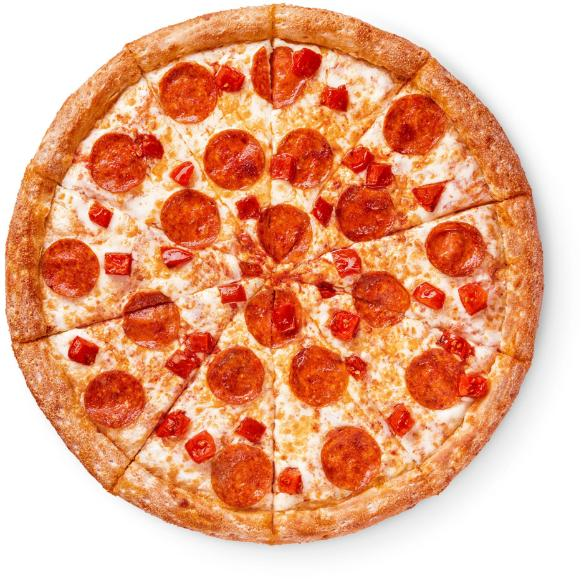
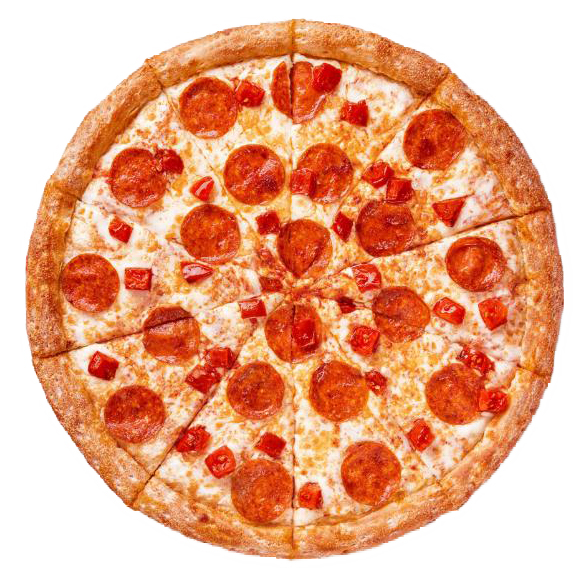
начало работы с выбором пиццы

diff --git a/src/module/product.js b/src/module/product.js
@@ -10,8 +10,8 @@ const pizzaArray = [
             lt: 685
         },
         structure: ['Пикантная пепперони', 'томатный соус', 'моцарелла', 'томаты'],
+        image: '/images/pizza/piper-bold.jpeg',
         images: {
-            preview: '/images/pizza/piper-bold.jpeg',
             bold: '/images/pizza/piper-bold.jpeg',
             thin: '/images/pizza/piper-thin.jpeg'
         }
@@ -27,8 +27,8 @@ const pizzaArray = [
             lt: 685
         },
         structure: ['Пикантная пепперони', 'томатный соус', 'моцарелла', 'томаты'],
+        image: '/images/pizza/piper-bold.jpeg',
         images: {
-            preview: '/images/pizza/piper-bold.jpeg',
             bold: '/images/pizza/piper-bold.jpeg',
             thin: '/images/pizza/piper-thin.jpeg'
         }
@@ -44,8 +44,8 @@ const pizzaArray = [
             lt: 685
         },
         structure: ['Пикантная пепперони', 'томатный соус', 'моцарелла', 'томаты'],
+        image: '/images/pizza/piper-bold.jpeg',
         images: {
-            preview: '/images/pizza/piper-bold.jpeg',
             bold: '/images/pizza/piper-bold.jpeg',
             thin: '/images/pizza/piper-thin.jpeg'
         }
@@ -61,8 +61,8 @@ const pizzaArray = [
             lt: 685
         },
         structure: ['Пикантная пепперони', 'томатный соус', 'моцарелла', 'томаты'],
+        image: '/images/pizza/piper-bold.jpeg',
         images: {
-            preview: '/images/pizza/piper-bold.jpeg',
             bold: '/images/pizza/piper-bold.jpeg',
             thin: '/images/pizza/piper-thin.jpeg'
         }
@@ -78,8 +78,8 @@ const pizzaArray = [
             lt: 685
         },
         structure: ['Пикантная пепперони', 'томатный соус', 'моцарелла', 'томаты'],
+        image: '/images/pizza/piper-bold.jpeg',
         images: {
-            preview: '/images/pizza/piper-bold.jpeg',
             bold: '/images/pizza/piper-bold.jpeg',
             thin: '/images/pizza/piper-thin.jpeg'
         }
@@ -95,8 +95,8 @@ const pizzaArray = [
             lt: 685
         },
         structure: ['Пикантная пепперони', 'томатный соус', 'моцарелла', 'томаты'],
+        image: '/images/pizza/piper-bold.jpeg',
         images: {
-            preview: '/images/pizza/piper-bold.jpeg',
             bold: '/images/pizza/piper-bold.jpeg',
             thin: '/images/pizza/piper-thin.jpeg'
         }
@@ -112,8 +112,8 @@ const pizzaArray = [
             lt: 685
         },
         structure: ['Пикантная пепперони', 'томатный соус', 'моцарелла', 'томаты'],
+        image: '/images/pizza/piper-bold.jpeg',
         images: {
-            preview: '/images/pizza/piper-bold.jpeg',
             bold: '/images/pizza/piper-bold.jpeg',
             thin: '/images/pizza/piper-thin.jpeg'
         }
@@ -129,8 +129,8 @@ const pizzaArray = [
             lt: 685
         },
         structure: ['Пикантная пепперони', 'томатный соус', 'моцарелла', 'томаты'],
+        image: '/images/pizza/piper-bold.jpeg',
         images: {
-            preview: '/images/pizza/piper-bold.jpeg',
             bold: '/images/pizza/piper-bold.jpeg',
             thin: '/images/pizza/piper-thin.jpeg'
         }

diff --git a/src/sass/index.sass b/src/sass/index.sass
@@ -407,4 +407,74 @@ body
             opacity: 0.6
             text-align: center
 
-                
+//Стили для блока вобор питцы
+.pizza-select-wrapper   
+    position: fixed
+    overflow-y: scroll
+    top: 0
+    right: 0
+    left: 0
+    height: 100%
+    background-color: rgba(0,0,0,0.3)
+    z-index: 999
+    .pizza-select
+        position: absolute
+        top: 0
+        right: 0
+        width: 550px
+        padding: 25px
+        min-height: calc(100% - 50px)
+        background-color: #fff
+    .pizza-size-image
+        position: relative
+        height: 450px
+        display: flex
+        align-items: center
+        justify-content: center
+    .radius
+        display: block
+        position: absolute
+        border: 1px dashed $red
+        border-radius: 50%
+        &:before
+            content: ""
+            display: block
+            padding-top: 100%
+    .small-radius
+        width: 300px
+    .middle-radius
+        width: 380px
+    .large-radius
+        width: 460px
+    img.pizza-radius
+        position: absolute
+        max-width: 320px
+        border-radius: 50%
+    .pizza-size-button
+        display: flex
+        width: 100%
+        justify-content: center
+        margin-top: 25px
+    .pizza-size-chekbox
+        &:nth-child(1)
+            label
+                border-radius: 10px 0 0 10px
+        &:nth-child(3)
+            label
+                border-radius: 0 10px 10px 0
+        input
+            position: fixed
+            top: -1000px
+        label
+            font-size: 0.9em
+            margin-right: -1px
+            display: inline-block
+            padding: 8px 14px 8px 15px
+            border: 1px solid $grey-simple
+            cursor: pointer
+            transition: all 0.3s
+        input:checked+label
+            background-color: $grey-simple
+            color: #fff
+        
+        

diff --git a/src/components/PizzaSelectComponent.vue b/src/components/PizzaSelectComponent.vue
@@ -1,0 +1,47 @@
+<template>
+    <div class="pizza-select-wrapper">
+        <div class="pizza-select">
+            <div class="pizza-size-image">
+                <div class="small-radius radius"></div>
+                <div class="middle-radius radius"></div>
+                <div class="large-radius radius"></div>
+                <img class="pizza-radius" src="/images/pizza/piper-bold.jpeg"/>
+            </div>
+            <div class="pizza-size-button">
+                <div class="pizza-size-chekbox">
+                    <input type="radio" name="size" id="s" value="s" v-model="size">
+                    <label for="s">Маленькая</label>
+                </div>
+                <div class="pizza-size-chekbox">
+                    <input type="radio" name="size" id="m" value="m" v-model="size">
+                    <label for="m">Средняя</label>
+                </div>
+                <div class="pizza-size-chekbox">
+                    <input type="radio" name="size" id="l" value="l" v-model="size">
+                    <label for="l">Большая</label>
+                </div>
+            </div>
+        </div>
+    </div>
+</template>
+
+<script>
+
+export default {
+    data: function(){
+        return{
+            size: 's'
+        }
+    },
+    mounted: function(){
+        document.body.style.overflow = 'hidden';
+    },
+    // computed: {
+    //     pizzaSel: function(){
+            
+    //     }
+    // },
+    methods: {
+    }
+}
+</script>

diff --git a/src/App.vue b/src/App.vue
@@ -1,5 +1,6 @@
 <template>
   <div id="app">
+    <pizza-select></pizza-select>
     <header-component></header-component>
     <menu-component></menu-component>
     <router-view></router-view>
@@ -12,12 +13,14 @@
 import Header from "./components/HeaderComponent"
 import Menu from "./components/MenuComponent"
 import Footer from "./components/FooterComponent"
+import PizzaSelect from "./components/PizzaSelectComponent"
 
 export default {
   components: {
     "header-component": Header,
     "menu-component": Menu,
-    "footer-component": Footer
+    "footer-component": Footer,
+    "pizza-select": PizzaSelect
   },
   mounted: function(){
     this.$store.dispatch('GET_BASKET');

diff --git a/src/components/PizzaComponent.vue b/src/components/PizzaComponent.vue
@@ -1,7 +1,7 @@
 <template>
     <div class="product-item">
         <a href="#" class="images-product">
-            <img :src="pizza.images.preview" alt="">
+            <img :src="pizza.image" alt="">
         </a>
         <div class="desc-product">
             <p class="title-product">{{ pizza.title }}</p>

diff --git a/src/store/index.js b/src/store/index.js
@@ -114,6 +114,5 @@ export default new Vuex.Store({
 			context.commit('UP_BASKET');
 		},
 
-
 	}
 })
